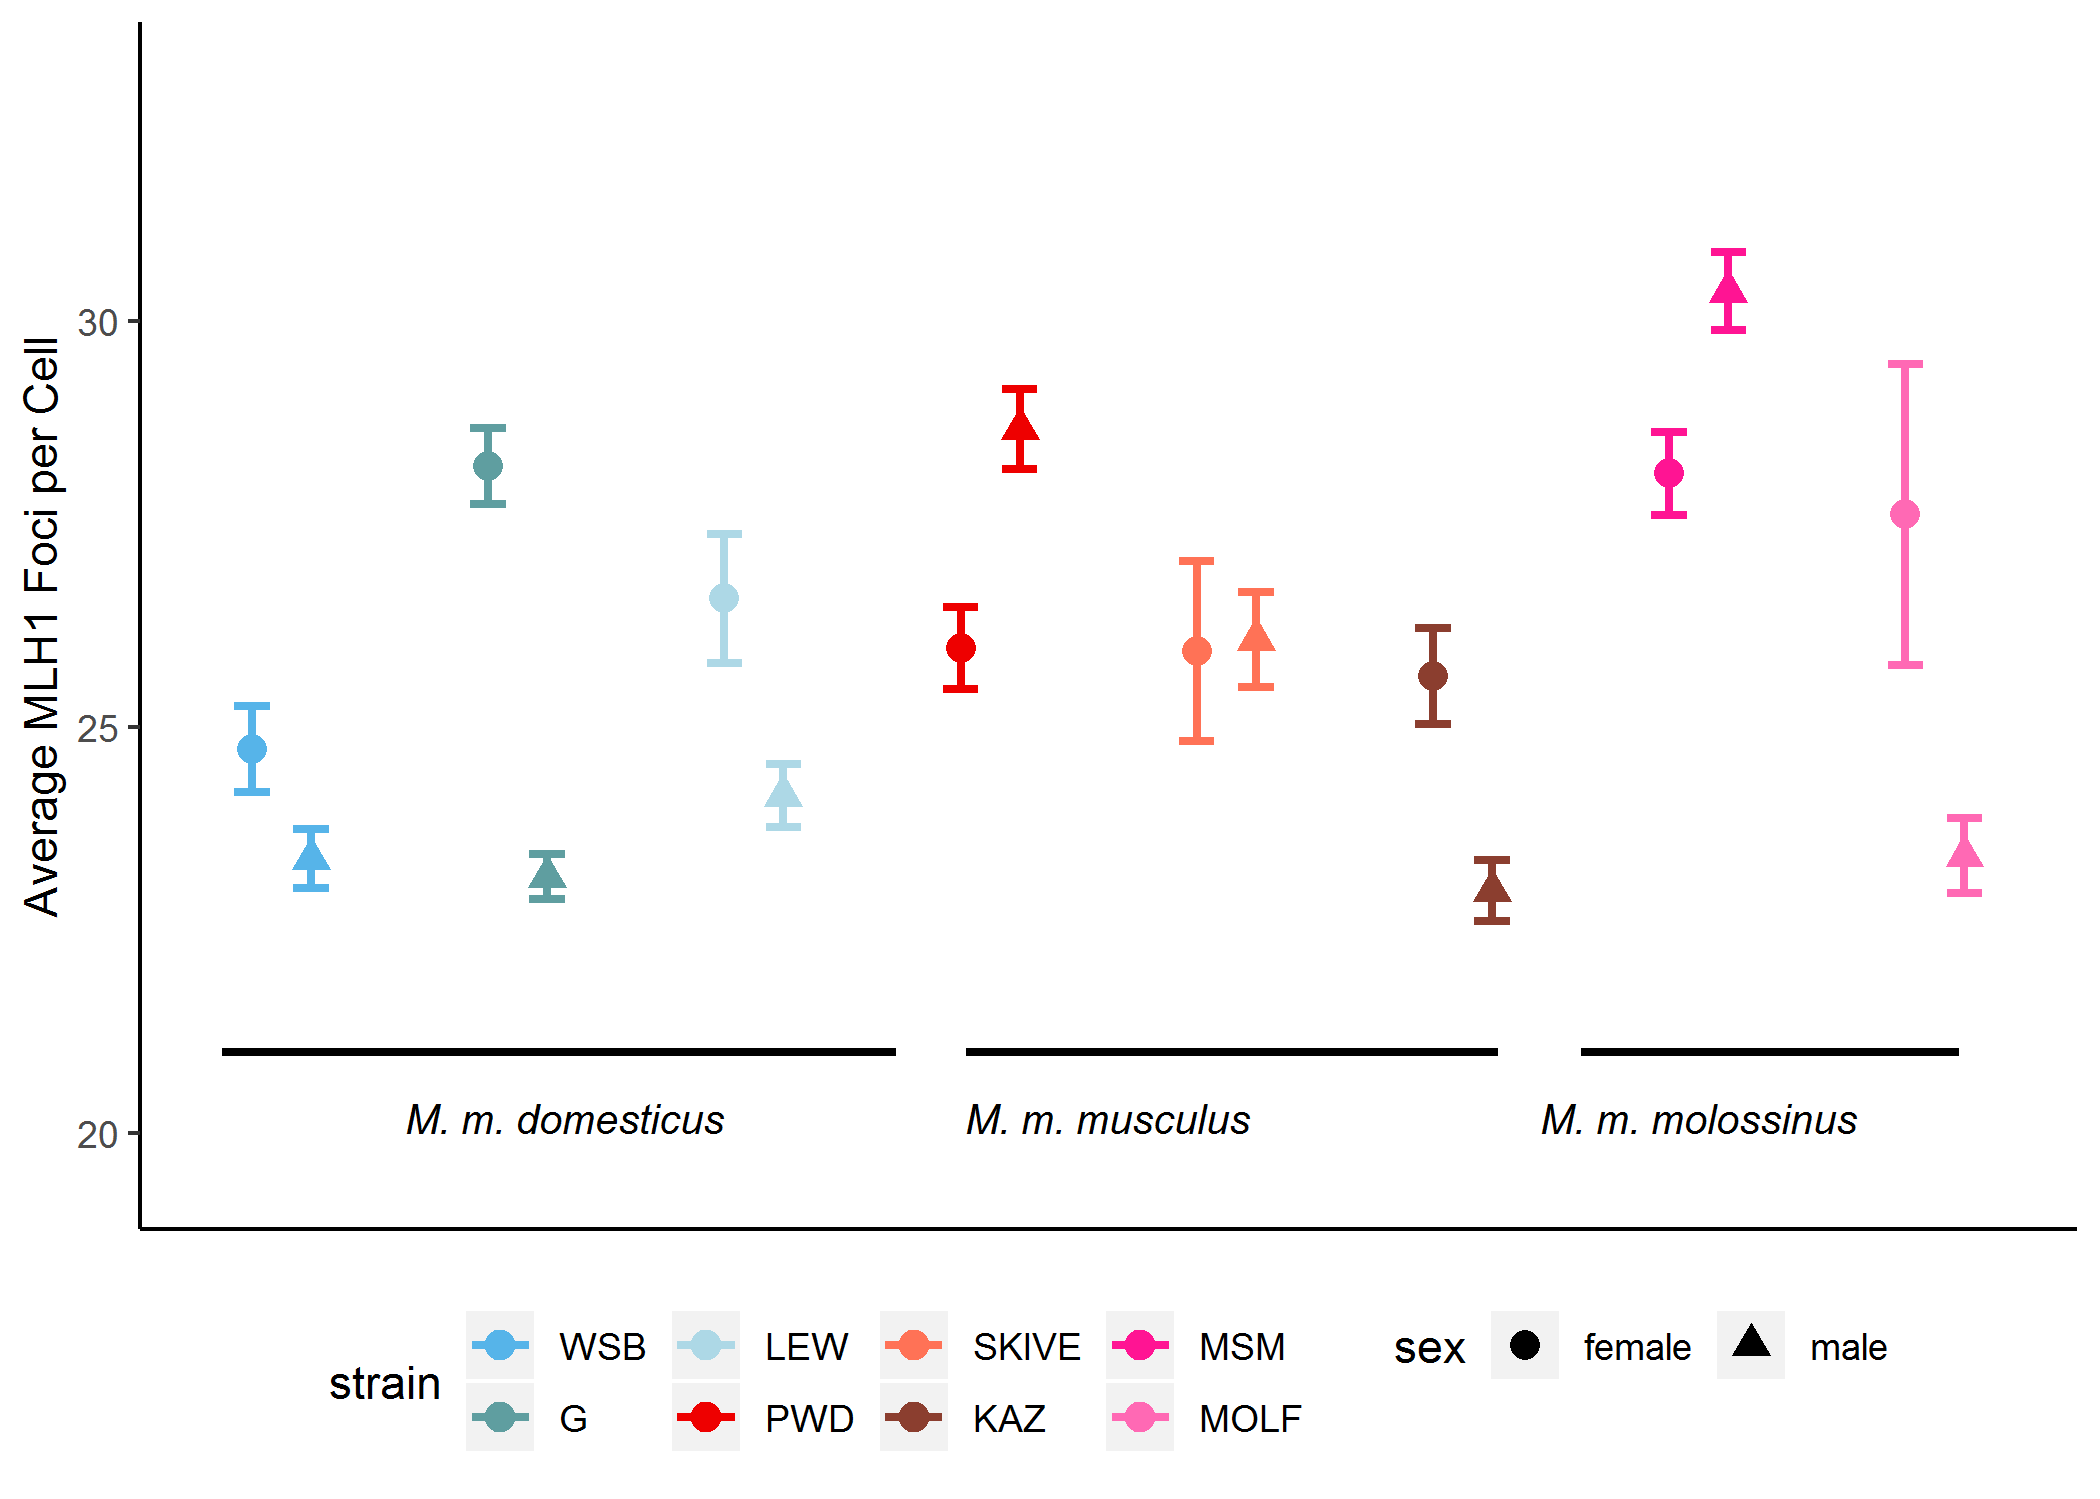
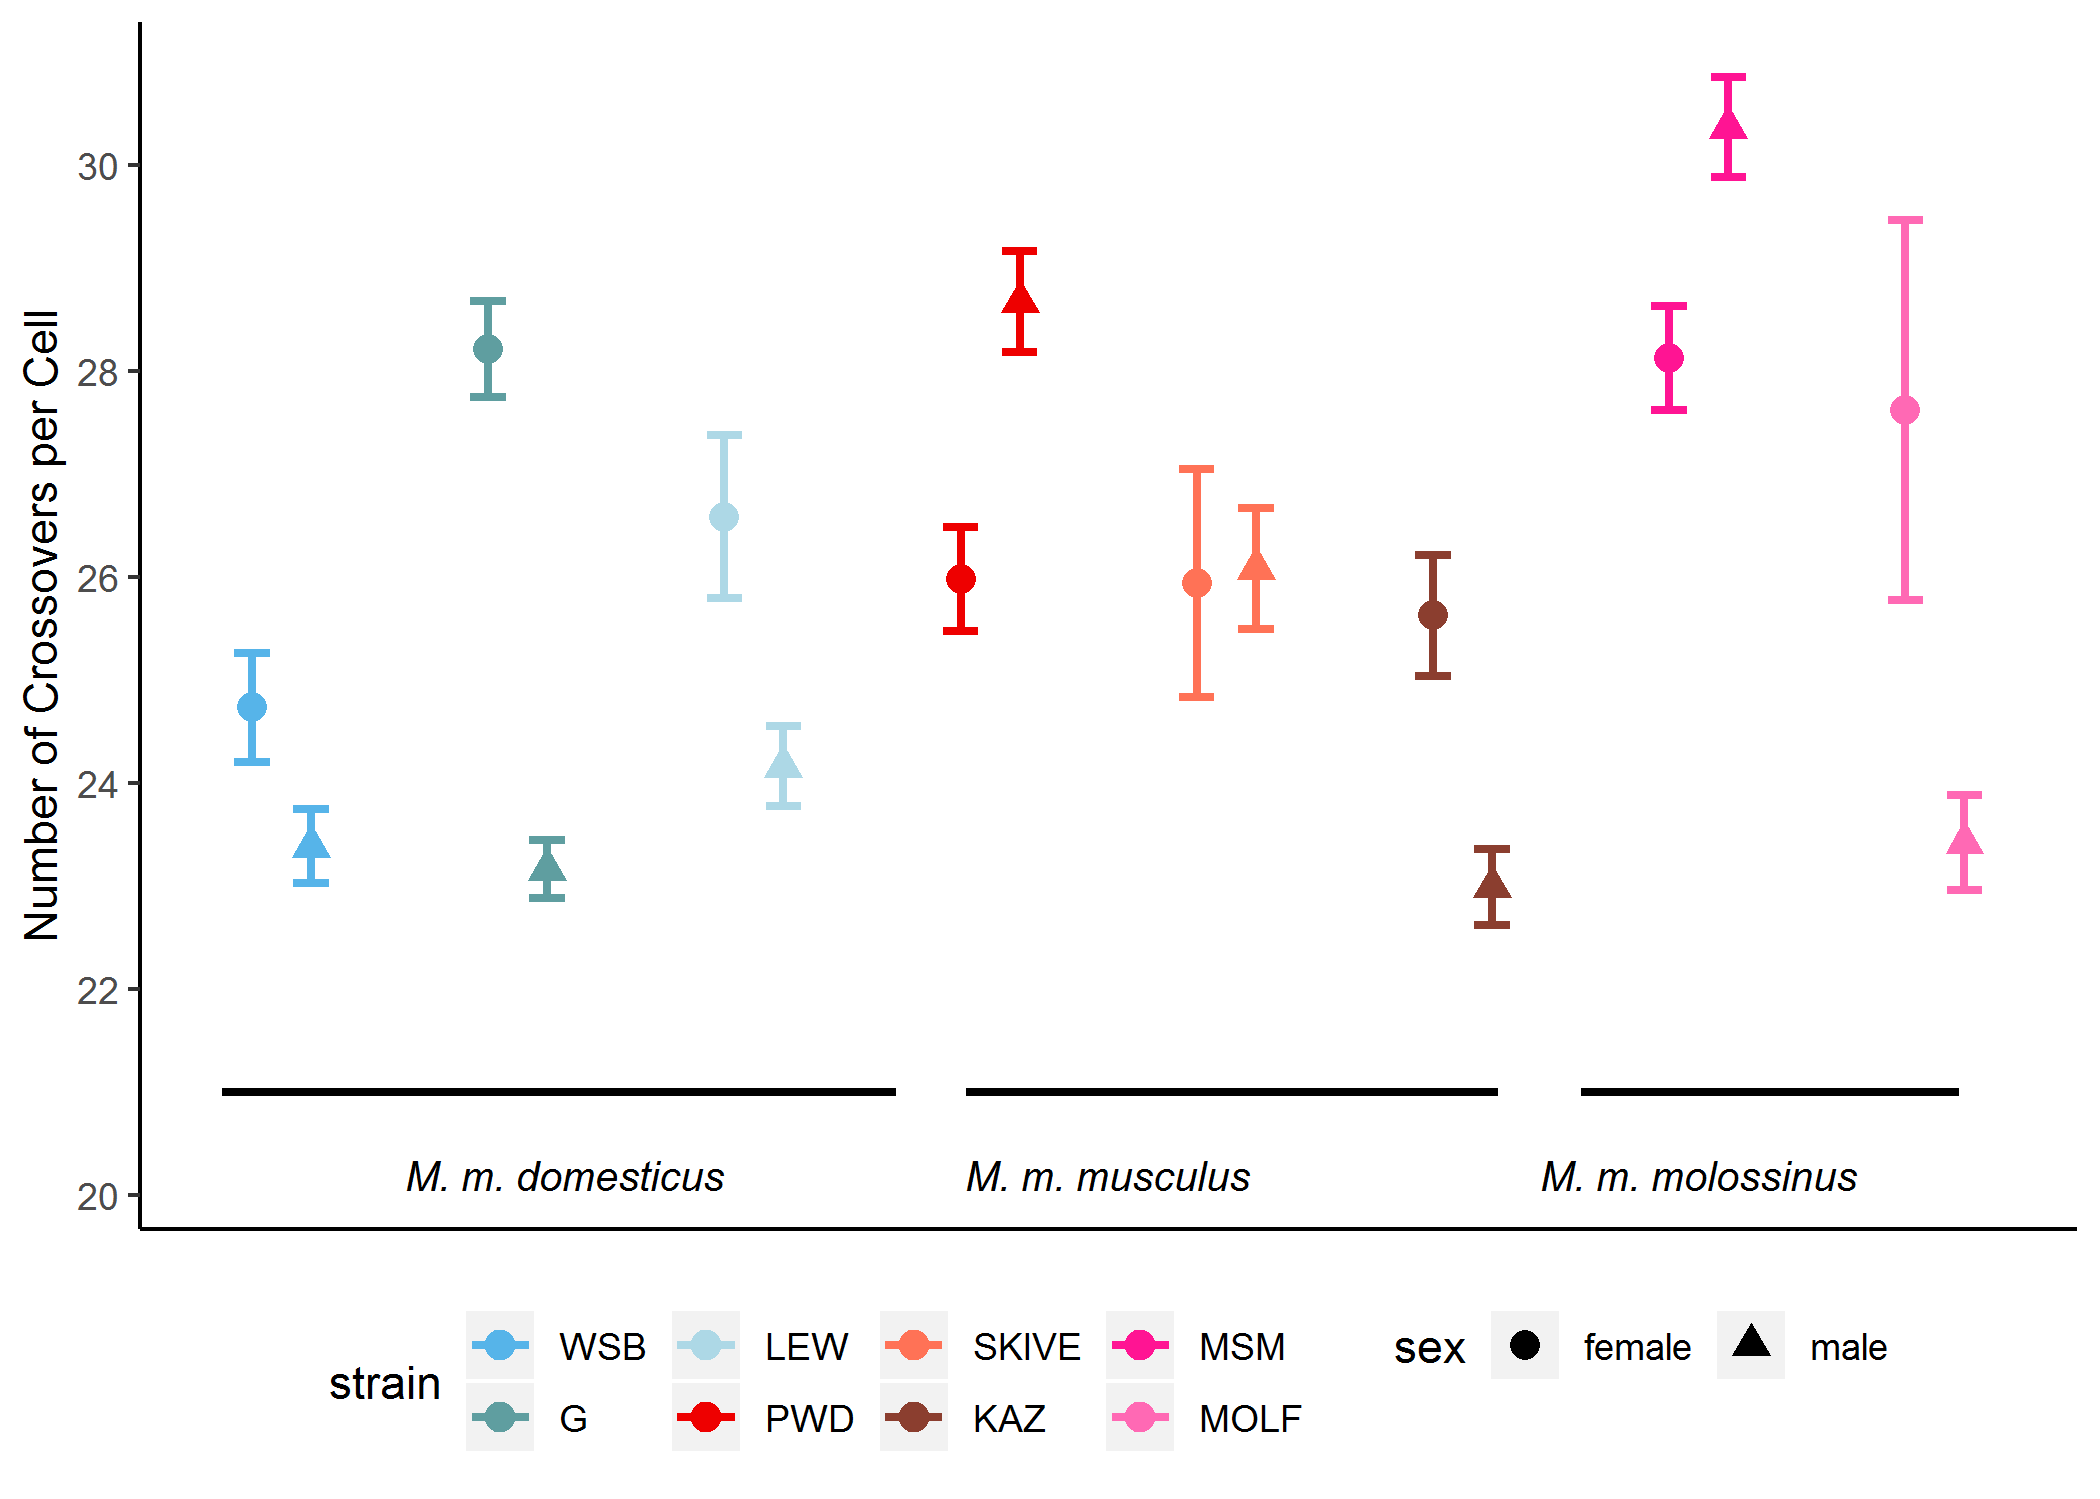
added more tick marks, changed axis title

diff --git a/doc/figureFiles/figures.html b/doc/figureFiles/figures.html
@@ -187,14 +187,16 @@ summary {
 
 <div id="option-1-strain-averages-sexes-matched-cells-pooled" class="section level1">
 <h1>Option 1, strain averages, sexes matched, cells pooled</h1>
+<pre><code>## Scale for 'y' is already present. Adding another scale for 'y', which
+## will replace the existing scale.</code></pre>
 <pre><code>## Warning: Using shapes for an ordinal variable is not advised</code></pre>
[2 lines of base64/hex data omitted]
 <pre><code>## Saving 7 x 5 in image</code></pre>
 <pre><code>## Warning: Using shapes for an ordinal variable is not advised</code></pre>
 <p>Error bars are 2 SE,</p>
 <p>S.E. = sd( all cells) / n.cells</p>
-<div id="option-2-strain-averages-more-strains-pooled-cells" class="section level2">
-<h2>Option 2, strain averages, more strains, pooled cells,</h2>
+<div id="option-2-mouse-averages-more-strains" class="section level2">
+<h2>Option 2, mouse averages, more strains</h2>
 <pre><code>## Warning: Using shapes for an ordinal variable is not advised</code></pre>
 <pre><code>## Warning: Removed 4 rows containing missing values (geom_errorbar).</code></pre>
[1 lines of base64/hex data omitted]
